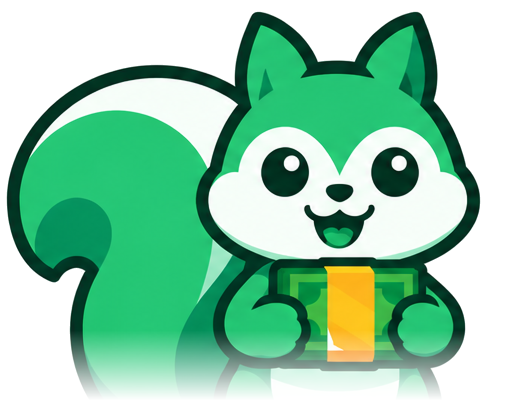
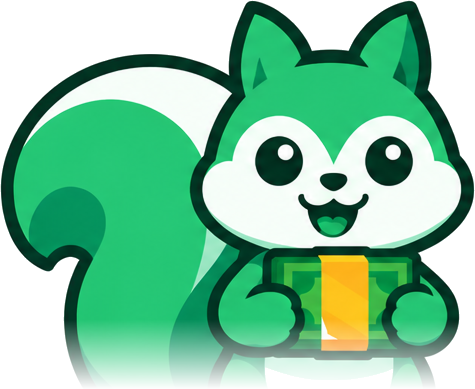
Fix outline in the mascot
Re-cut the half-body mascot from the turnaround sheet. Soft edge pixels next to the
background are now made transparent instead of staying pale, so no light outline
shows on the green cards or in dark mode.

diff --git a/templates/welcome.html b/templates/welcome.html
@@ -6,7 +6,7 @@
 
 {% block content %}
 <p class="wordmark">Extrac<span>kash</span></p>
-<img class="mascot-half hero-mascot" src="{% static 'images/mascot-half.png' %}" alt="Extrackash squirrel holding cash" width="510" height="400">
+<img class="mascot-half hero-mascot" src="{% static 'images/mascot-half.png' %}" alt="Extrackash squirrel holding cash" width="475" height="389">
 
 <h1 class="headline">A little clarity.<br>A lot more possibility.</h1>
 <p class="lede">Meet your money, without the stress. Track today. Make space for tomorrow.</p>

diff --git a/templates/ready.html b/templates/ready.html
@@ -6,7 +6,7 @@
 
 {% block content %}
 <section class="confirm">
-  <img class="mascot-half auth" src="{% static 'images/mascot-half.png' %}" alt="" width="510" height="400">
+  <img class="mascot-half auth" src="{% static 'images/mascot-half.png' %}" alt="" width="475" height="389">
   <p class="muted">All set</p>
   <h1>Your account is ready.</h1>
   <p>Welcome, {{ user.first_name }}! Your first account was added. Add an income or expense to see the full picture.</p>

diff --git a/templates/home.html b/templates/home.html
@@ -16,7 +16,7 @@
     <h1>Good {{ greeting }},<br>{{ user.first_name|default:"there" }}</h1>
     <p>{{ insight }}</p>
   </div>
-  <img class="mascot-half" src="{% static 'images/mascot-half.png' %}" alt="" width="510" height="400">
+  <img class="mascot-half" src="{% static 'images/mascot-half.png' %}" alt="" width="475" height="389">
 </section>
 
 <div class="two-cards">

diff --git a/templates/login.html b/templates/login.html
@@ -11,7 +11,7 @@
   <span></span>
 </header>
 
-<img class="mascot-half auth" src="{% static 'images/mascot-half.png' %}" alt="" width="510" height="400">
+<img class="mascot-half auth" src="{% static 'images/mascot-half.png' %}" alt="" width="475" height="389">
 <h2 class="headline small">Good to see you again.</h2>
 
 <form method="post" class="auth-form" novalidate>
